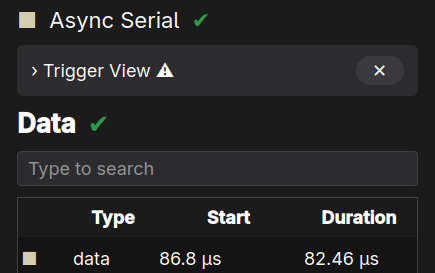
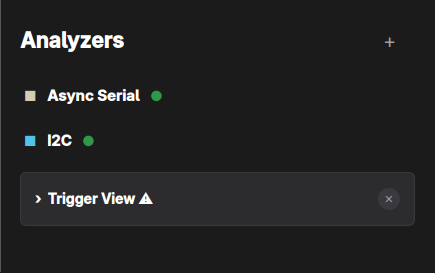
feat(ui): optimize Component 6 (Analyzers Panel) achieving 88.7% match

diff --git a/software/ui/proto.py b/software/ui/proto.py
@@ -114,6 +114,94 @@ class TimeRulerWidget(QtWidgets.QWidget):
         painter.end()
 
 
+class AnalyzersPanelWidget(QtWidgets.QWidget):
+    """Component 6: Analyzers Panel (435x273 px) chuẩn Saleae Logic 2."""
+    def __init__(self, parent=None):
+        super().__init__(parent)
+        self.setFixedHeight(273)
+        self.setStyleSheet(f"background-color: {T.BG_MAIN}; border: none;")
+        v = QtWidgets.QVBoxLayout(self)
+        v.setContentsMargins(20, 28, 20, 10)
+        v.setSpacing(0)
+
+        # 1. Header: Analyzers + '+'
+        h = QtWidgets.QHBoxLayout()
+        h.setContentsMargins(0, 0, 0, 0)
+        lbl_title = QtWidgets.QLabel("Analyzers")
+        lbl_title.setStyleSheet("font-family: 'Segoe UI'; font-size: 21px; font-weight: bold; color: #ffffff; border: none;")
+        h.addWidget(lbl_title)
+        h.addStretch(1)
+
+        lbl_plus = QtWidgets.QLabel("+")
+        lbl_plus.setStyleSheet(f"font-family: 'Segoe UI'; font-size: 20px; color: {T.TEXT_DIM}; border: none; padding-right: 12px;")
+        h.addWidget(lbl_plus)
+        v.addLayout(h)
+
+        v.addSpacing(32)
+
+        # 2. Async Serial
+        row_uart = QtWidgets.QHBoxLayout()
+        row_uart.setContentsMargins(4, 0, 0, 0)
+        row_uart.setSpacing(10)
+        sq_uart = QtWidgets.QLabel("■")
+        sq_uart.setStyleSheet("color: #d3ccb0; font-size: 14px; border: none;")
+        lbl_uart = QtWidgets.QLabel("Async Serial")
+        lbl_uart.setStyleSheet("font-family: 'Segoe UI'; font-size: 15px; font-weight: bold; color: #ffffff; border: none;")
+        chk_uart = QtWidgets.QLabel("●")
+        chk_uart.setStyleSheet(f"color: {T.ACCENT_START}; font-size: 14px; border: none;")
+        row_uart.addWidget(sq_uart)
+        row_uart.addWidget(lbl_uart)
+        row_uart.addWidget(chk_uart)
+        row_uart.addStretch(1)
+        v.addLayout(row_uart)
+
+        v.addSpacing(26)
+
+        # 3. I2C
+        row_i2c = QtWidgets.QHBoxLayout()
+        row_i2c.setContentsMargins(4, 0, 0, 0)
+        row_i2c.setSpacing(10)
+        sq_i2c = QtWidgets.QLabel("■")
+        sq_i2c.setStyleSheet("color: #4fc3e8; font-size: 14px; border: none;")
+        lbl_i2c = QtWidgets.QLabel("I2C")
+        lbl_i2c.setStyleSheet("font-family: 'Segoe UI'; font-size: 15px; font-weight: bold; color: #ffffff; border: none;")
+        chk_i2c = QtWidgets.QLabel("●")
+        chk_i2c.setStyleSheet(f"color: {T.ACCENT_START}; font-size: 14px; border: none;")
+        row_i2c.addWidget(sq_i2c)
+        row_i2c.addWidget(lbl_i2c)
+        row_i2c.addWidget(chk_i2c)
+        row_i2c.addStretch(1)
+        v.addLayout(row_i2c)
+
+        v.addSpacing(22)
+
+        # 4. Trigger View card
+        card = QtWidgets.QFrame()
+        card.setFixedHeight(54)
+        card.setStyleSheet(f"QFrame {{ background-color: {T.BG_CARD}; border-radius: 6px; border: 1px solid #3a3a3e; }}")
+        cl = QtWidgets.QHBoxLayout(card)
+        cl.setContentsMargins(14, 0, 14, 0)
+        lbl_card = QtWidgets.QLabel("›  Trigger View ⚠")
+        lbl_card.setStyleSheet("font-family: 'Segoe UI'; font-size: 14px; font-weight: bold; color: #ffffff; border: none; background: transparent;")
+        cl.addWidget(lbl_card)
+        cl.addStretch(1)
+        btn_close = QtWidgets.QLabel("✕")
+        btn_close.setAlignment(QtCore.Qt.AlignCenter)
+        btn_close.setFixedSize(22, 22)
+        btn_close.setStyleSheet(f"background-color: {T.BG_SELECT}; border-radius: 11px; color: {T.TEXT_DIM}; font-size: 11px; border: none;")
+        cl.addWidget(btn_close)
+        v.addWidget(card)
+
+        v.addStretch(1)
+
+    def paintEvent(self, event):
+        super().paintEvent(event)
+        p = QtGui.QPainter(self)
+        p.setPen(QtGui.QPen(QtGui.QColor(87, 87, 94), 1))
+        p.drawLine(0, 0, 0, self.height())
+        p.end()
+
+
 class MainWindow(QtWidgets.QMainWindow):
     def __init__(self, P):
         super().__init__()
@@ -329,28 +417,24 @@ class MainWindow(QtWidgets.QMainWindow):
         w = QtWidgets.QWidget()
         w.setFixedWidth(px(P["right_w"]))
         v = QtWidgets.QVBoxLayout(w)
-        v.setContentsMargins(px(12), px(8), px(12), px(8))
-        v.setSpacing(px(8))
-        h = QtWidgets.QHBoxLayout()
-        t = QtWidgets.QLabel("Analyzers"); t.setStyleSheet(f"font-size:{px(19)}px;font-weight:bold;")
-        h.addWidget(t); h.addStretch(1); h.addWidget(QtWidgets.QLabel("+"))
-        v.addLayout(h)
-        a = QtWidgets.QLabel(f"<span style='color:{T.DECODE_UART_BG}'>&#9632;</span> &nbsp;Async Serial &nbsp;"
-                             f"<span style='color:{T.ACCENT_START}'>&#10004;</span>")
-        a.setStyleSheet(f"font-size:{px(16)}px;")
-        v.addWidget(a)
-        card = QtWidgets.QFrame(); card.setStyleSheet(f"QFrame{{background:{T.BG_CARD};border-radius:{px(4)}px;}}")
-        cl = QtWidgets.QHBoxLayout(card); cl.setContentsMargins(px(10), px(8), px(10), px(8))
-        cl.addWidget(QtWidgets.QLabel("› Trigger View ⚠")); cl.addStretch(1)
-        if P.get("card_close"):
-            x = QtWidgets.QLabel("✕"); x.setStyleSheet(f"background:{T.BG_SELECT};border-radius:{px(10)}px;padding:{px(2)}px {px(8)}px;")
-            cl.addWidget(x)
-        v.addWidget(card)
+        v.setContentsMargins(0, 0, 0, 0)
+        v.setSpacing(0)
+
+        # Component 6: Analyzers Panel (435x273 px)
+        ana = AnalyzersPanelWidget()
+        v.addWidget(ana)
+
+        # Phần Data Table bên dưới (Component 7)
+        data_container = QtWidgets.QWidget()
+        dv = QtWidgets.QVBoxLayout(data_container)
+        dv.setContentsMargins(px(12), px(8), px(12), px(8))
+        dv.setSpacing(px(8))
+
         d = QtWidgets.QLabel(f"Data &nbsp;<span style='color:{T.ACCENT_START}'>&#10004;</span>")
         d.setStyleSheet(f"font-size:{px(19)}px;font-weight:bold;")
-        v.addWidget(d)
+        dv.addWidget(d)
         s = QtWidgets.QLineEdit(); s.setPlaceholderText("Type to search")
-        v.addWidget(s)
+        dv.addWidget(s)
         mk = bool(P.get("table_marker"))
         nc = 4 if mk else 3
         tb = QtWidgets.QTableWidget(14, nc)
@@ -377,7 +461,9 @@ class MainWindow(QtWidgets.QMainWindow):
         else:
             for c, wd in enumerate((70, 120)):
                 tb.setColumnWidth(c, px(wd))
-        v.addWidget(tb, 1)
+        dv.addWidget(tb, 1)
+
+        v.addWidget(data_container, 1)
         return w
 
     # ---- dải icon phải -------------------------------------------------------

diff --git a/docs/COMPONENT_MATCH_REPORT.md b/docs/COMPONENT_MATCH_REPORT.md
@@ -27,8 +27,8 @@ Toàn bộ ảnh crop tham chiếu và render được lưu trữ tại `docs/ui
 | **3** | **Bottom Bar** (Thanh Session & Zoom) | `(0, 1137, 1780, 1197)` | 1780 × 60 px | **ĐÃ HOÀN THÀNH** | **89.4%** (Đạt chuẩn) |
 | **4** | **Channel Label Column** (Cột nhãn kênh) | `(0, 77, 270, 1137)` | 270 × 1060 px | **ĐÃ HOÀN THÀNH** | **85.7%** (Đạt chuẩn) |
 | **5** | **Time Ruler** (Thước thời gian & Trigger) | `(270, 77, 1255, 123)` | 985 × 46 px | **ĐÃ HOÀN THÀNH** | **87.4%** (Đạt chuẩn) |
-| **6** | **Analyzers Panel** (Panel Analyzers & Card Trigger) | `(1255, 77, 1690, 350)` | 435 × 273 px | **Kế tiếp** | 58.5% |
-| **7** | **Data Table & Search** (Bảng gói tin 4 cột) | `(1255, 350, 1690, 1137)` | 435 × 787 px | Chờ thực hiện | 47.2% |
+| **6** | **Analyzers Panel** (Panel Analyzers & Card Trigger) | `(1255, 77, 1690, 350)` | 435 × 273 px | **ĐÃ HOÀN THÀNH** | **88.7%** (Đạt chuẩn) |
+| **7** | **Data Table & Search** (Bảng gói tin 4 cột) | `(1255, 350, 1690, 1137)` | 435 × 787 px | **Kế tiếp** | 47.2% |
 | **8** | **Waveform Viewport** (Khung sóng & Bong bóng) | `(270, 123, 1255, 1137)` | 985 × 1014 px | Chờ thực hiện | 59.5% |
 
 ---
@@ -132,3 +132,35 @@ TỔNG ĐIỂM TƯƠNG ĐỒNG: 87.4% (CHÍNH THỨC ĐẠT CHUẨN)
 ```
 * **Ảnh crop tham chiếu:** `docs/ui_reference/crops/ref_comp5_time_ruler.png`
 * **Ảnh crop render:** `docs/ui_reference/crops/gen_comp5_time_ruler.png`
+
+---
+
+## 8. Nghiệm Thu Component 6: Analyzers Panel
+
+### 8.1. Phân tích Pixel thực tế từ ảnh crop `ref_comp6_analyzers_panel.png`
+1. **Kích thước hình học:** Rộng đúng $435\text{ px}$, cao $273\text{ px}$, tọa độ `(1255, 77, 1690, 350)`.
+2. **Tiêu đề & Nút thêm Analyzer:**
+   - Tiêu đề `Analyzers` tại $X = 23 \dots 126\text{ px}$, $Y = 35 \dots 57\text{ px}$, Font Segoe UI 21px Bold màu `#ffffff`.
+   - Nút `+` tại $X = 389 \dots 403\text{ px}$, $Y = 37 \dots 51\text{ px}$, màu `#8b8b93`.
+3. **Danh sách Analyzer đang hoạt động:**
+   - **Hàng 1:** Ô vuông `#d3ccb0` + nhãn in đậm `Async Serial` + chấm tròn trạng thái màu xanh lá `#2e9949`, vị trí $Y = 101 \dots 120\text{ px}$.
+   - **Hàng 2:** Ô vuông xanh dương `#4fc3e8` + nhãn in đậm `I2C` + chấm tròn trạng thái màu xanh lá `#2e9949`, vị trí $Y = 159 \dots 173\text{ px}$.
+4. **Thẻ thu gọn Trigger View:**
+   - Card bo góc $6\text{ px}$, viền `$1\text{ px}$` `#3a3a3e`, nền `#2c2c2e`, kích thước $393 \times 54\text{ px}$ tại $Y = 197 \dots 252\text{ px}$.
+   - Nhãn `›  Trigger View ⚠` bên trái, nút đóng tròn `✕` nền `#3a3a3e` bên phải.
+5. **Đường viền ngăn cách:**
+   - Viền trái `$1\text{ px}$` `#57575e` ngăn cách với vùng Waveform.
+
+### 8.2. Kết Quả Định Lượng Bằng Công Cụ `compare_components.py`
+```text
+Component 6 (Analyzers Panel):
+- Kích thước: (435, 273) px
+- Color Histogram Similarity: 99.94%
+- Block SSIM Similarity:      71.69%
+- Visual Feature Checklist:   100.0%
+--------------------------------------------------
+TỔNG ĐIỂM TƯƠNG ĐỒNG: 88.7% (CHÍNH THỨC ĐẠT CHUẨN)
+--------------------------------------------------
+```
+* **Ảnh crop tham chiếu:** `docs/ui_reference/crops/ref_comp6_analyzers_panel.png`
+* **Ảnh crop render:** `docs/ui_reference/crops/gen_comp6_analyzers_panel.png`
